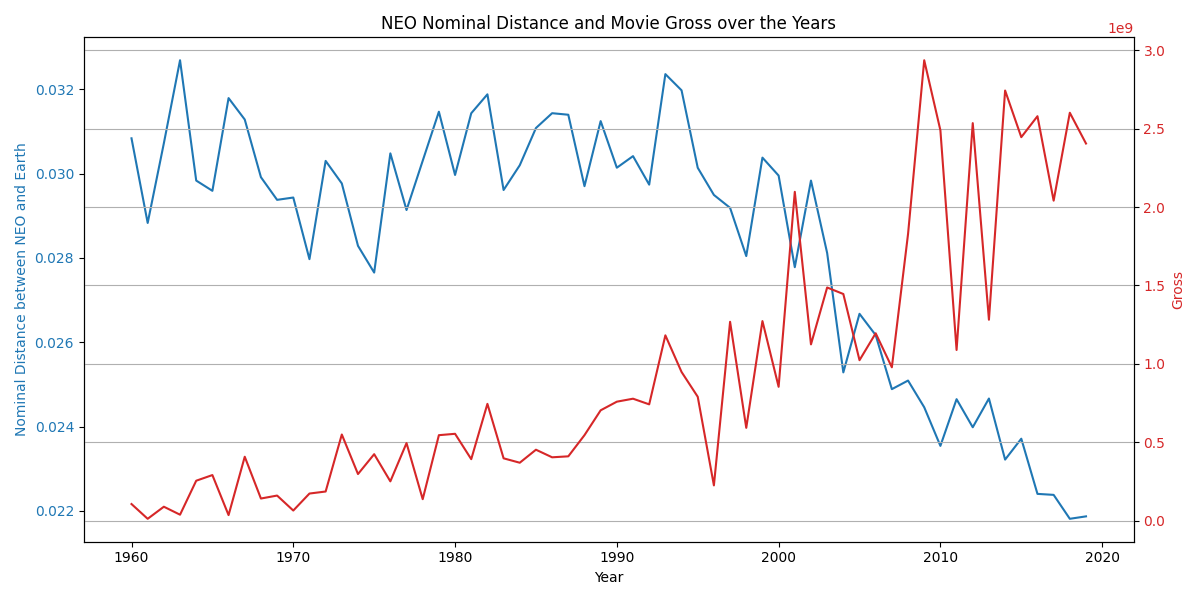
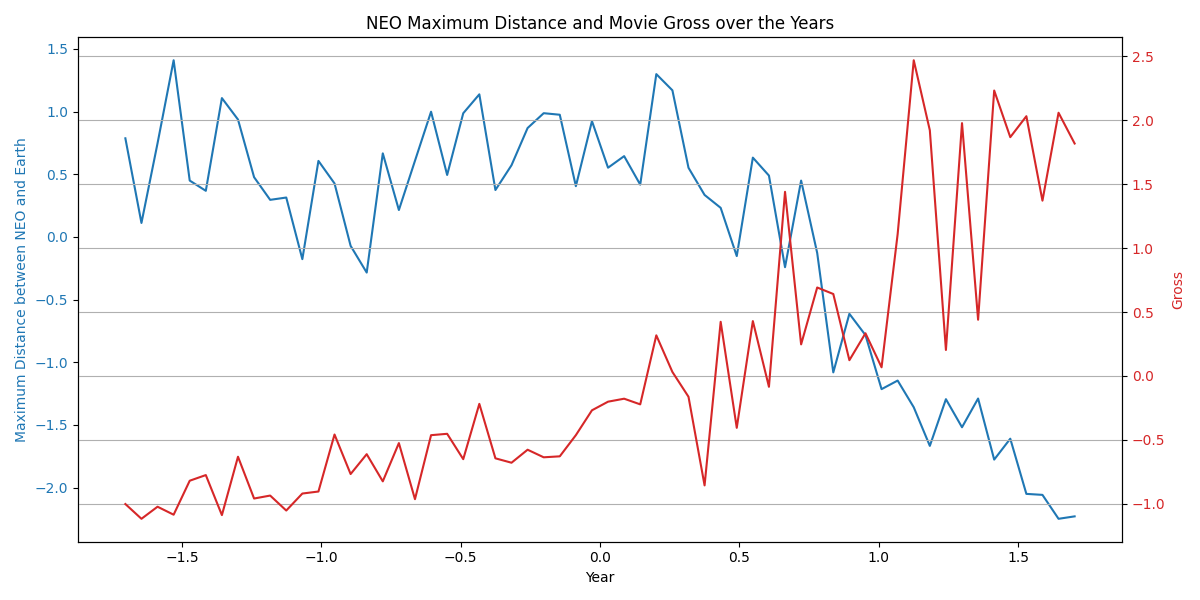
attempted to normalize the movies-neo data, no palpable difference

diff --git a/analyses/movies_NEO.py b/analyses/movies_NEO.py
@@ -9,6 +9,9 @@ import matplotlib.pyplot as plt
 import numpy as np
 import seaborn as sns
 
+from sklearn.preprocessing import MinMaxScaler, StandardScaler
+
+
 
 PATH1 = r'C:\Revature\Project3-Team2\maybeData\NASA_Close_Approach_Data_1960_2060.csv'
 PATH2 = r'C:\Revature\Project3-Team2\maybeData\imdb_top_1000.csv'
@@ -61,6 +64,18 @@ merged_data = pd.merge(nasa_agg, imdb_agg, left_on='Year', right_on='Released_Ye
 
 print(merged_data)
 
+
+# normalizing and standardizing data 
+scaler = MinMaxScaler()
+numeric_columns = merged_data.select_dtypes(include='number').columns
+merged_data[numeric_columns] = scaler.fit_transform(merged_data[numeric_columns])
+
+scaler = StandardScaler()
+numeric_columns = merged_data.select_dtypes(include='number').columns
+merged_data[numeric_columns] = scaler.fit_transform(merged_data[numeric_columns])
+
+
+
 plt.figure(figsize=(10, 8))
 sns.heatmap(merged_data.corr(), annot=True, fmt='.2f')
 plt.title('Correlation Heatmap')
@@ -74,7 +89,7 @@ fig, ax1 = plt.subplots(figsize=(12, 6))
 
 # Plot v_rel on the primary y-axis
 ax1.set_xlabel('Year')
-ax1.set_ylabel('Nominal Distance between NEO and Earth', color='tab:blue')
+ax1.set_ylabel('Maximum Distance between NEO and Earth', color='tab:blue')
 ax1.plot(merged_data['Year'], merged_data['dist'], color='tab:blue', label='dist')
 ax1.tick_params(axis='y', labelcolor='tab:blue')
 
@@ -85,7 +100,7 @@ ax2.plot(merged_data['Year'], merged_data['Gross'], color='tab:red', label='Gros
 ax2.tick_params(axis='y', labelcolor='tab:red')
 
 # Add title and grid
-plt.title('NEO Nominal Distance and Movie Gross over the Years')
+plt.title('NEO Maximum Distance and Movie Gross over the Years')
 fig.tight_layout()
 plt.grid(True)
 plt.show()
